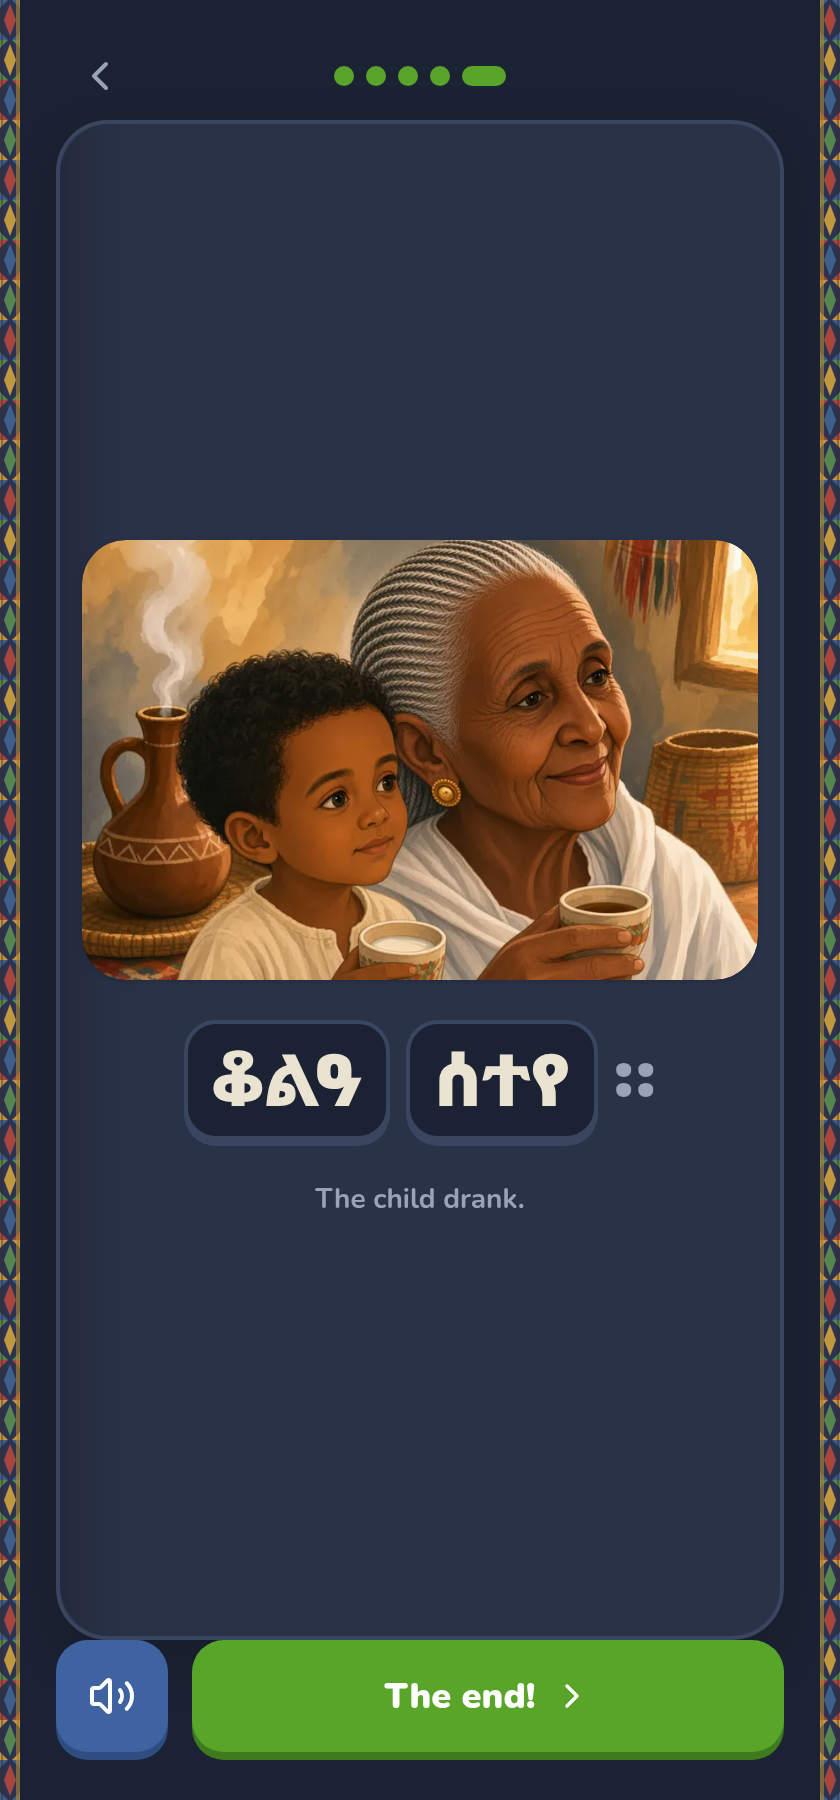
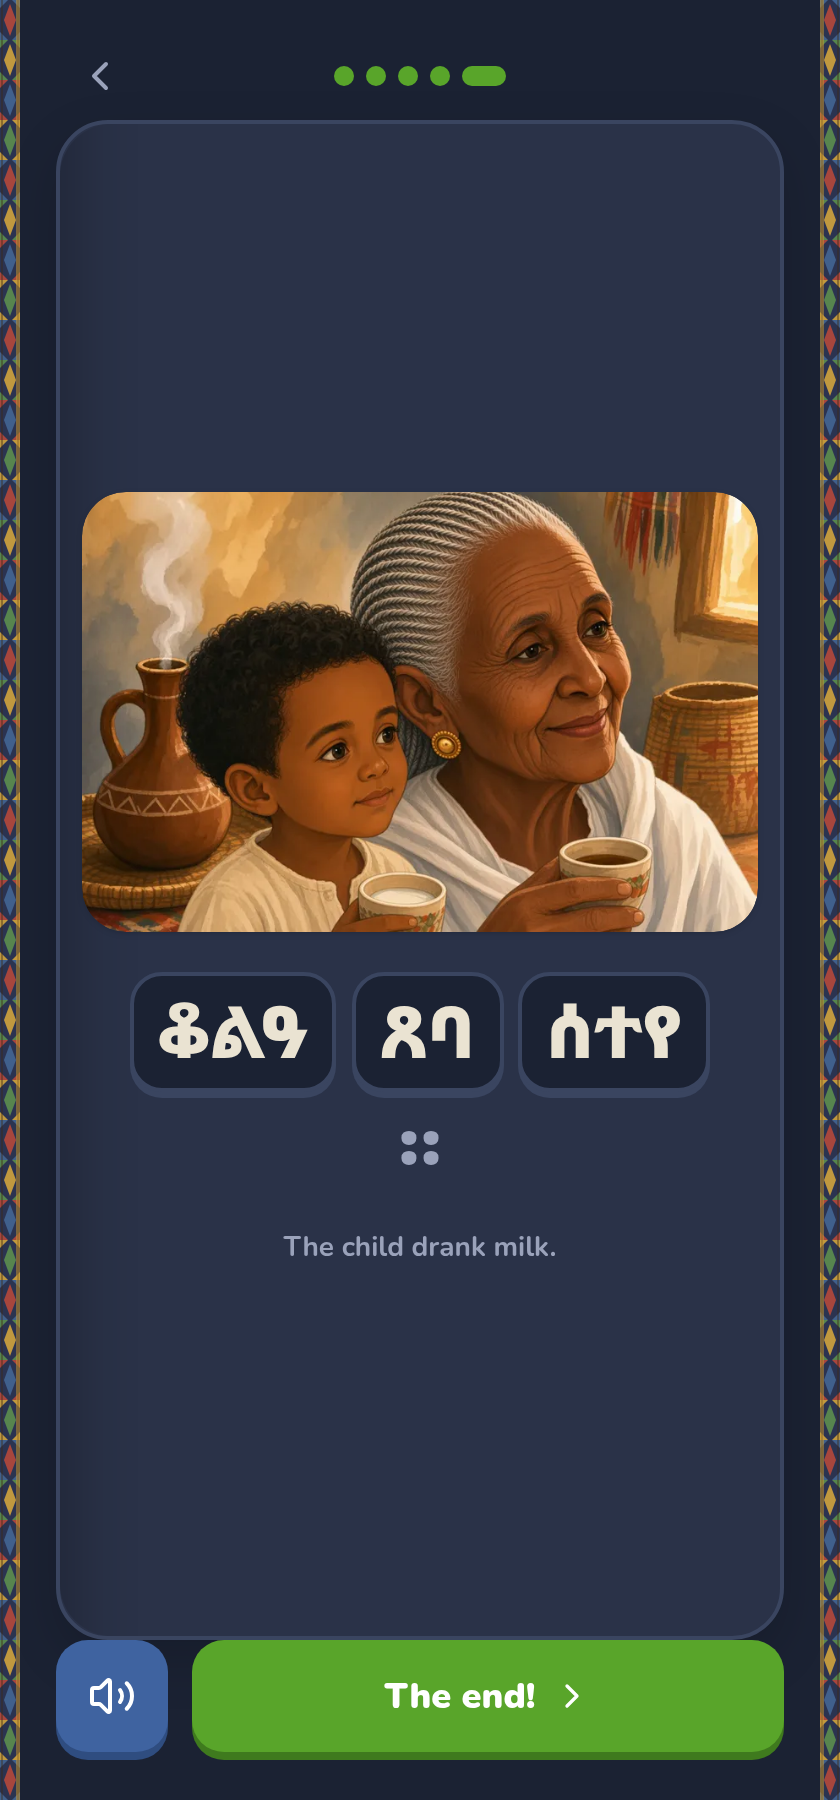
Name the drinks on the coffee story pages.
Grandma's line is now ዓባየይ ቡን ሰተየት። and the child's line is ቆልዓ ጸባ ሰተየ። ቡ stays in the be family; ን adds ne, and ጸባ adds tse.

Changed region(s): [[0.0929, 0.2489, 0.9286, 0.7156]]

diff --git a/src/data/schoolPathGr1Stories.test.js b/src/data/schoolPathGr1Stories.test.js
@@ -122,9 +122,13 @@ describe('school path story pack', () => {
     expect(byId['walk-to-school'].pages[2].meaningEn).toBe('A little bird is there.')
     expect(byId['walk-to-school'].pages[2].familyIds).toEqual(['chhe', 're', 'a', 'le'])
     expect(byId['coffee-with-grandma'].titleTi).toBe('ጀበና ምስ ዓባየይ')
-    expect(byId['coffee-with-grandma'].pages[3].geez).toBe('ዓባየይ ሰተየት።')
-    expect(byId['coffee-with-grandma'].pages[3].meaningEn).toBe('Grandma drank.')
-    expect(byId['coffee-with-grandma'].pages[3].familyIds).toEqual(['ae', 'be', 'ye', 'se', 'te'])
+    expect(byId['coffee-with-grandma'].pages[3].geez).toBe('ዓባየይ ቡን ሰተየት።')
+    expect(byId['coffee-with-grandma'].pages[3].meaningEn).toBe('Grandma drank coffee.')
+    expect(byId['coffee-with-grandma'].pages[3].familyIds).toEqual(['ae', 'be', 'ye', 'ne', 'se', 'te'])
+    expect(byId['coffee-with-grandma'].pages[4].geez).toBe('ቆልዓ ጸባ ሰተየ።')
+    expect(byId['coffee-with-grandma'].pages[4].meaningEn).toBe('The child drank milk.')
+    expect(byId['coffee-with-grandma'].pages[4].familyIds).toEqual(['qe', 'le', 'ae', 'tse', 'be', 'se', 'te', 'ye'])
+    expect(byId['baby-wont-sleep'].pages[3].geez).toBe('ቆልዓ ጸባ ሰተየ።')
     expect(byId['baby-wont-sleep'].pages[1].geez).toBe('ማማ ዘመረት።')
     expect(byId['baby-wont-sleep'].pages[2].geez).toBe('ማማ ቆልዓ ሓዘት።')
     const sun = byId['sun-all-week']
